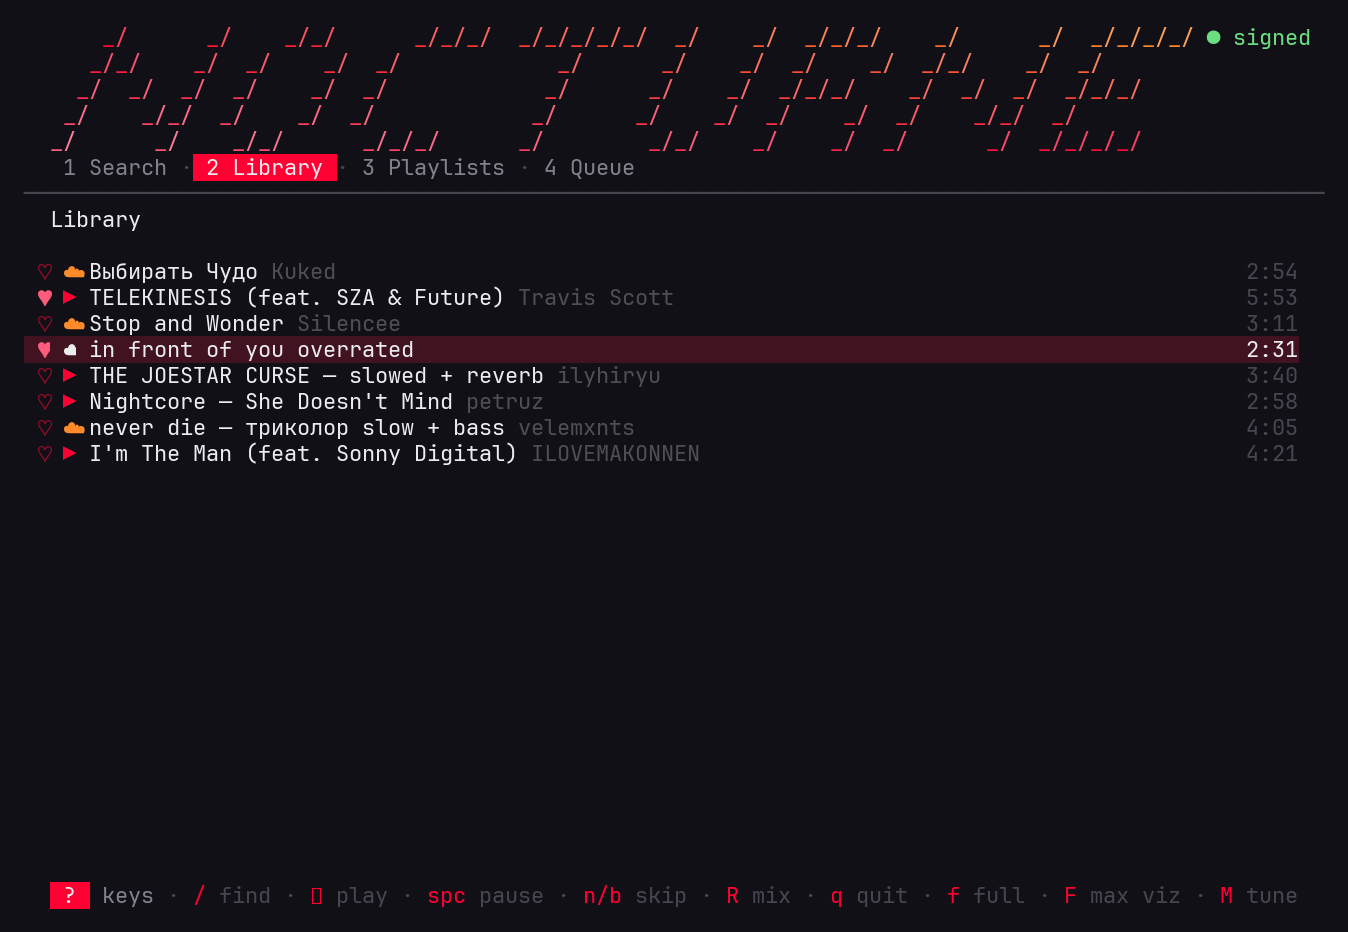
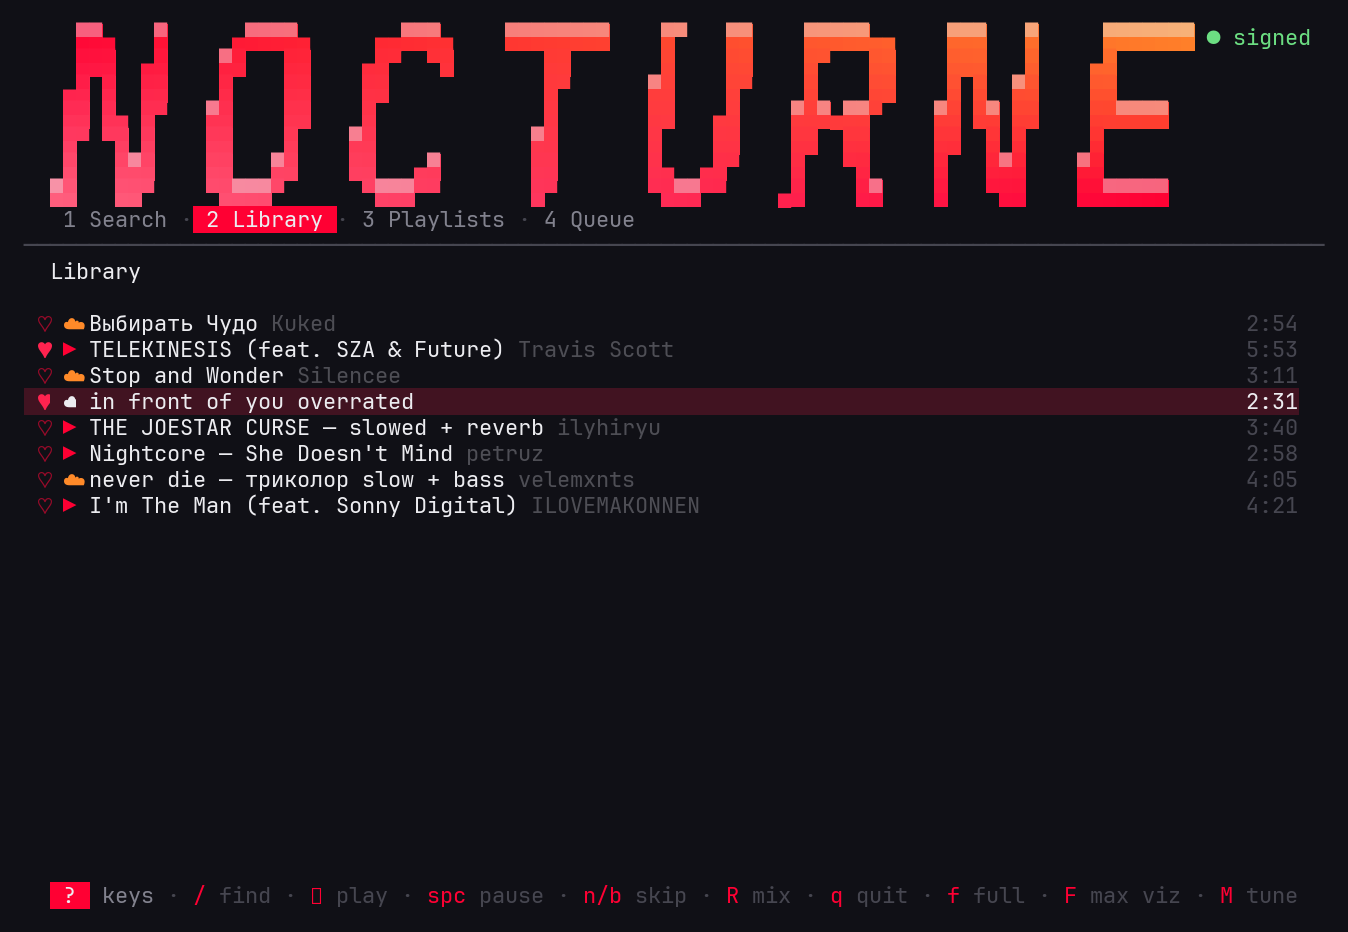
the sign, third time's the charm: a real typeface in half-block pixels
lean's dotted strokes dissolved into busy wallpapers — figlet line art
fundamentally can't hold a starfield background. the wordmark is now
JetBrains Mono Bold Italic rasterized to an 88x14 pixel bitmap baked
into the source: solid italic letterforms, diagonal gradient, a lit
bevel along each letter's top edge, legible over anything. README
assets re-shot with it

Changed region(s): [[0.0, 0.0, 0.9659, 0.5601]]

diff --git a/ytm.py b/ytm.py
@@ -1412,40 +1412,62 @@ LOGO = [
     "█▚ █ ▐▌ ▐▌ ▐▌     █   █  █ █▄▄▛ █▚ █ █▀▀ ",
     "█ ▚█ ▝█▄█▘ ▝█▄▄   █   ▜▄▄▛ █ ▝▙ █ ▚█ █▄▄▄",
 ]
-# the sign: figlet's "lean" — dotted italic strokes, airy like starlight
-BIG_LOGO = [
-    "    _/      _/    _/_/      _/_/_/  _/_/_/_/_/  _/    _/  _/_/_/    _/      _/  _/_/_/_/",
-    "   _/_/    _/  _/    _/  _/            _/      _/    _/  _/    _/  _/_/    _/  _/",
-    "  _/  _/  _/  _/    _/  _/            _/      _/    _/  _/_/_/    _/  _/  _/  _/_/_/",
-    " _/    _/_/  _/    _/  _/            _/      _/    _/  _/    _/  _/    _/_/  _/",
-    "_/      _/    _/_/      _/_/_/      _/        _/_/    _/    _/  _/      _/  _/_/_/_/",
+# the sign: NOCTURNE set in JetBrains Mono Bold Italic, rasterized
+# to half-block pixels — solid letterforms that stay legible over
+# any wallpaper/shader, unlike line-art figlet strokes
+BIG_BITS = [
+    "  ##    #      ####        ###     ########    ##   ##    #####      ###   #     #######",
+    "  ###   #     ######     ######    ########    #    ##    #######    ###   #     #######",
+    "  ###   #    ##   ##     ##  ##       ##       #    ##    ##   ##    ###   #     #",
+    "  ###  ##    ##   ##    ##    #       ##       #    ##    #    ##    ###   #    ##",
+    "  # #  ##    #    ##    ##            ##      ##    ##    #    ##    # #  ##    ##",
+    " ## #  ##    #    ##    ##            #       ##    #     #    ##    # #  ##    ##",
+    " ## #  ##   ##    ##    #             #       ##    #    ### ###    ## ## ##    ######",
+    " ## ## #    ##    ##    #             #       ##   ##    ######     ## ## ##    ######",
+    " ## ## #    ##    #    ##            ##       #    ##    ##  ##     ##  # #     #",
+    " #   # #    ##    #    ##            ##       #    ##    ##  ##     ##  # #     #",
+    " #   ###    ##   ##    ##    #       ##       #    ##    #   ##     #   ###    ##",
+    " #   ###    ##   ##    ##   ##       ##       ##  ##     #    #     #   ###    ##",
+    "##   ###    ######      ######       ##       ######     #    ##    #   ###    #######",
+    "##   ##      ####        ###         #         ###      ##    ##    #    ##    #######",
 ]
 _LOGO_CACHE = {}
 
 
 def fancy_logo():
-    """The NOCTURNE sign: lean italic strokes lit by a diagonal
-    gradient — the upstrokes catch a little extra light, like
-    starlight on glass. Rebuilt per theme, cached after."""
+    """The NOCTURNE wordmark: a real italic typeface as half-block
+    pixels — diagonal gradient, a lit bevel along each letter's top
+    edge. Rebuilt per theme, cached after."""
     key = (RED, ORANGE, PINK)
     if key in _LOGO_CACHE:
         return _LOGO_CACHE[key]
-    H = len(BIG_LOGO)
-    Wc = max(len(r) for r in BIG_LOGO)
+    H2 = len(BIG_BITS)
+    Wc = max(len(r) for r in BIG_BITS)
+    g = [[1 if x < len(r) and r[x] == "#" else 0 for x in range(Wc)]
+         for r in BIG_BITS]
     out = []
-    for r, row in enumerate(BIG_LOGO):
+    for r in range(H2 // 2):
         seg = []
-        for x, ch in enumerate(row):
-            if ch == " ":
+        for x in range(Wc):
+            t, b = g[2 * r][x], g[2 * r + 1][x]
+            if not t and not b:
                 seg.append(" ")
                 continue
-            gy = r / max(H - 1, 1)
-            c = lerp(lerp(RED, PINK, gy), lerp(ORANGE, RED, gy),
-                     x / max(Wc - 1, 1))
-            if ch == "/":
-                c = lerp(c, WHITE, 0.25)
-            seg.append(fg(c) + ch)
-        out.append("".join(seg) + RESET)
+            gx = x / (Wc - 1)
+
+            def col(y, lit):
+                c = lerp(lerp(RED, PINK, y / (H2 - 1)),
+                         lerp(ORANGE, RED, y / (H2 - 1)), gx)
+                return lerp(c, WHITE, 0.40) if lit else c
+            lit_t = t and (r == 0 or not g[2 * r - 1][x])
+            if t and b:
+                seg.append(fg(col(2 * r, lit_t)) + bg(col(2 * r + 1, False))
+                           + "▀" + RESET)
+            elif t:
+                seg.append(fg(col(2 * r, lit_t)) + "▀" + RESET)
+            else:
+                seg.append(fg(col(2 * r + 1, False)) + "▄" + RESET)
+        out.append("".join(seg))
     _LOGO_CACHE.clear()           # one theme at a time is plenty
     _LOGO_CACHE[key] = out
     return out
@@ -1530,6 +1552,7 @@ class Blackspace:
         self.mturn = 0.0         # mouse: virtual-stick turn rate
         self.pulse = self.pulse_s = self.heat = 0.0
         self.recoil = 0.0
+        self.shocks = []         # landing shockwaves rippling the floor
         self.bob_t = self.bob_amt = 0.0
         self.score = 0
         self.hearts = []         # pickups floating over the track
@@ -1737,6 +1760,8 @@ class Blackspace:
         if self.grounded and self._held("jump"):
             if self.ground_t <= 0.10 and self.airtime > 0.15:
                 self.chain += 1
+                self.shocks = (self.shocks
+                               + [[self.px, self.py, 0.0]])[-4:]
                 boost = 1.05 + 0.02 * min(6, self.chain)
                 s2 = min(11.5, speed * boost)
                 if speed > 0.5:
@@ -1783,12 +1808,18 @@ class Blackspace:
                 # short gaps without jumping at all.)
                 if self.z > -0.25 and self._floor(self.px, self.py):
                     land = -self.vz
+                    self.shocks = (self.shocks
+                                   + [[self.px, self.py, 0.0]])[-4:]
                     self.z = self.vz = 0.0
                     self.grounded = True
                     self.ground_t = 0.0
                     self.recoil = min(1.5, 0.2 + land * 0.1)
                 elif self.z < -2.5:
                     self._die()
+
+        for s in self.shocks:
+            s[2] += dt
+        self.shocks = [s for s in self.shocks if s[2] < 1.1]
 
         # speed is energy — the world wakes up when you fly
         sp = math.hypot(self.vx, self.vy)
@@ -2018,6 +2049,9 @@ class Blackspace:
             c = self.cells.get(xx)
             if c:
                 loA[xx - x0w], hiA[xx - x0w], gpA[xx - x0w] = c
+        # which cells border a gap — the void announces itself
+        nx_gap = np.concatenate([gpA[1:], [True]])
+        pv_gap = np.concatenate([[True], gpA[:-1]])
 
         # floor: twin orbiting ripple sources; gap cells fall to void
         if eyez > 0.05:
@@ -2043,6 +2077,18 @@ class Blackspace:
                 raw = (P["a1"] * af * np.sin(d1 * P["k1"] - 1.15 * t)
                        + P["a2"] * af * np.sin(d2 * P["k2"] + 0.85 * t)
                        + P["bias"])
+                # every landing slams a ring of light into the floor
+                for sx_, sy_, age in self.shocks:
+                    ds = np.sqrt((fx - sx_) ** 2 + (fy - sy_) ** 2)
+                    ring = ds - (0.6 + 5.5 * age)
+                    raw += (2.2 * (1.0 - age / 1.1)
+                            * np.exp(-ring * ring * 3.2))
+                # gap edges glow hot before the drop
+                xig = np.clip(fx.astype(np.int32) - x0w, 0, n - 1)
+                frac = fx - np.floor(fx)
+                throb = 0.7 + 0.3 * math.sin(self.tt * 3.1)
+                raw += 2.4 * throb * (nx_gap[xig] * frac ** 3
+                                      + pv_gap[xig] * (1.0 - frac) ** 3)
                 vn = np.clip(0.5 + raw / 5.5, 0.0, 1.0)
                 fogf = bright / (1 + 0.06 * rowd * rowd)
                 fi = np.clip(vn * 63 * fogf[:, None], 0, 63).astype(np.int16)
@@ -2534,7 +2580,8 @@ class App:
                                         or os.environ.get("DISPLAY")):
             try:
                 subprocess.Popen(
-                    ["ghostty", "--custom-shader=",
+                    ["ghostty", "--gtk-single-instance=false",
+                     "--custom-shader=",
                      "--background=#050507", "--background-opacity=1",
                      "--background-blur=0", "--title=the blackspace",
                      "-e", sys.executable, os.path.abspath(__file__),
@@ -3452,7 +3499,7 @@ class App:
         tab_bar = (fg(DGREY) + "·" + RESET).join(tabs)
 
         lines = []
-        big = w >= len(BIG_LOGO[0]) + 6 and self.size.lines >= 26
+        big = w >= max(len(r) for r in BIG_BITS) + 6 and self.size.lines >= 26
         if big:
             for r, row in enumerate(fancy_logo()):
                 ln = "  " + row
